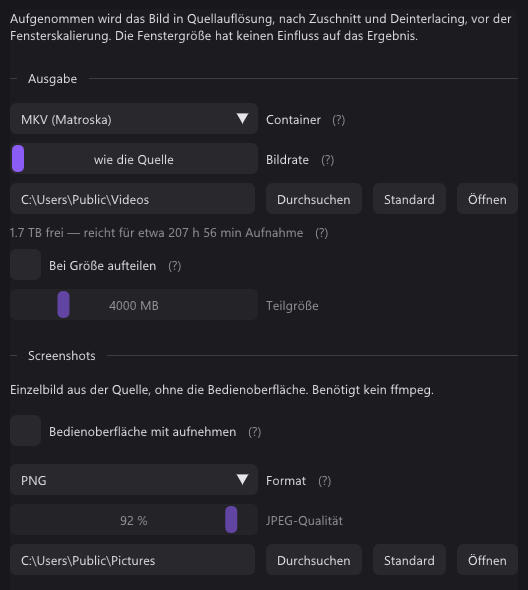
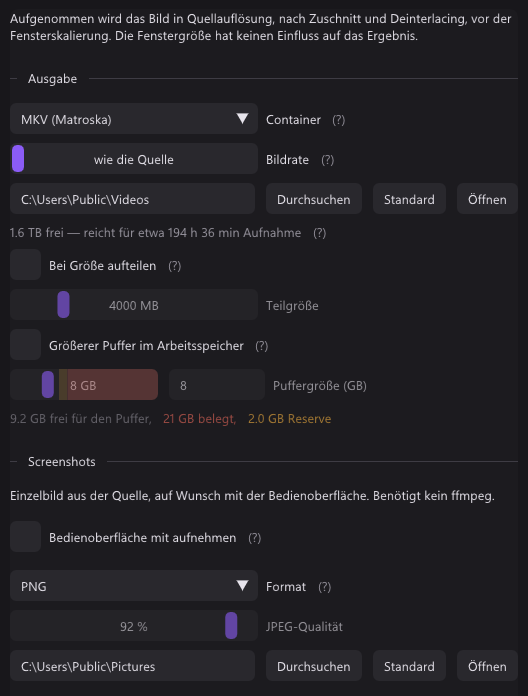
Website, manual and README for 6.1
- recording: 4:4:4, lossless encoders, unfiltered, larger memory buffer
- audio: the recording sources list replaces the microphone track
- new screenshots of the Recording tab (manual, both languages) and of
  the Recording and Encoder tabs (wiki)

diff --git a/docs/de/manual.html b/docs/de/manual.html
@@ -139,7 +139,7 @@
         <tr><td><strong>Quelle</strong></td><td>Videogerät, Videonorm, Eingang der Karte, Ton der Quelle, Format</td></tr>
         <tr><td><strong>Bild</strong></td><td>Skalierung, Bildregler, Halbbilder (Deinterlacing), Bildrand abschneiden, natives Pixelraster, Composite-Filter oder Rauschen, Bildröhre, Vergleich, Farbe</td></tr>
         <tr><td><strong>HDR</strong></td><td>Hoher Kontrastumfang: Tone Mapping oder Durchreichen, und was den Umfang in Screenshots und Aufnahmen behält</td></tr>
-        <tr><td><strong>Ton</strong></td><td>Wiedergabegerät, Verzögerung, Lautstärke, Mikrofon</td></tr>
+        <tr><td><strong>Ton</strong></td><td>Wiedergabegerät, Verzögerung, Lautstärke, Tonquellen der Aufnahme</td></tr>
         <tr><td><strong>Anzeige</strong></td><td>Grafik (Direct3D 11 oder Vulkan), VSync und Verhalten, Lautstärke-Anzeige, Vollbild</td></tr>
         <tr><td><strong>Aufnahme</strong></td><td>Ausgabeordner und Format, Screenshots, virtuelle Kamera, nach MP4 umpacken</td></tr>
         <tr><td><strong>Encoder</strong></td><td>Encoder, ffmpeg, Encoder-Einstellungen</td></tr>
@@ -157,10 +157,12 @@
         <li>Aufnehmen braucht ffmpeg. <strong>Encoder &rarr; ffmpeg herunterladen</strong> holt es und hält es aktuell.</li>
         <li>Den Encoder im Reiter Encoder wählen: NVENC, Quick Sync, AMF, x264 oder x265, mit H.264, H.265 oder AV1.</li>
         <li><strong>Volle Farbauflösung (4:4:4)</strong> behält die Farbe jedes Pixels, lohnt sich bei HDMI- und RGB-Quellen. Größere Dateien, und VLC oder mpv spielen sie ab, wo Browser und Handys es nicht können. NVENC, x264 und x265 können das.</li>
+        <li>Verlustfrei: <em>H.265 verlustfrei (NVIDIA NVENC)</em> schreibt MKV, <em>UT Video</em> und <em>Unkomprimiert</em> schreiben AVI, ohne 4-GB-Grenze. <strong>Ohne Filter</strong> nimmt die Bilder der Karte so auf, wie sie ankommen: ohne Deinterlacing, Beschnitt, Skalierung und Filter.</li>
         <li><kbd>F9</kbd> startet und stoppt. Ein roter Punkt auf dem Taskleistenknopf zeigt, dass aufgenommen wird.</li>
         <li>Der Reiter Aufnahme zeigt den freien Platz als Aufnahmezeit. Eine Aufnahme stoppt selbst, bevor das Laufwerk voll ist.</li>
+        <li><strong>Größerer Puffer im Arbeitsspeicher</strong> hält, was ein langsames Laufwerk noch nicht geschrieben hat, mehr als die üblichen 512&nbsp;MB.</li>
         <li>Kommt der Encoder nicht hinterher, sagt es ein Hinweis, und die Aufnahmeanzeige zeigt es, solange es anhält. Abhilfe: eine schnellere Voreinstellung, eine kleinere Auflösung oder Bildrate.</li>
-        <li>Ein Mikrofon kann auf eine eigene Spur: <strong>Ton &rarr; Mikrofon</strong>.</li>
+        <li><strong>Ton &rarr; Tonquellen der Aufnahme</strong> ergänzt den Ton der Karte: ein Mikrofon, ein Ausgabegerät oder den Systemton ohne qBlank. Jede Quelle hat eine eigene Verstärkung und kommt in die Mischung, auf eine eigene Spur oder beides. Wiedergegeben wird davon nichts.</li>
         <li><strong>Nach MP4 umpacken</strong> macht fertige Aufnahmen zu MP4, ohne sie neu zu kodieren.</li>
       </ul>
       <h3>Screenshots</h3>
@@ -170,7 +172,7 @@
         <li><em>Bedienoberfläche mit aufnehmen</em> im Reiter Aufnahme nimmt stattdessen das fertige Fenster auf.</li>
       </ul>
       <figure class="ui">
-        <img src="shots/recording.png" width="528" height="590" loading="lazy" alt="Der Reiter Aufnahme: Container MKV, Bildrate wie die Quelle, der Ausgabeordner mit dem freien Platz als Aufnahmezeit und unter Screenshots das Format PNG und der Screenshot-Ordner">
+        <img src="shots/recording.png" width="528" height="696" loading="lazy" alt="Der Reiter Aufnahme: Container MKV, Bildrate wie die Quelle, der Ausgabeordner mit dem freien Platz als Aufnahmezeit, der größere Puffer im Arbeitsspeicher und unter Screenshots das Format PNG und der Screenshot-Ordner">
         <figcaption>Einstellungen &rarr; Aufnahme: Container, Ordner und freier Platz, darunter die Screenshots.</figcaption>
       </figure>
       <h3>Virtuelle Kamera</h3>

diff --git a/docs/manual.html b/docs/manual.html
@@ -140,7 +140,7 @@
         <tr><td><strong>Source</strong></td><td>Video device, video standard, card input, source audio, format</td></tr>
         <tr><td><strong>Picture</strong></td><td>Scaling, picture controls, fields (deinterlacing), crop, native pixel grid, composite filter or noise, cathode ray tube, compare, colour</td></tr>
         <tr><td><strong>HDR</strong></td><td>High dynamic range: tone mapping or passthrough, and what keeps the range in screenshots and recordings</td></tr>
-        <tr><td><strong>Audio</strong></td><td>Playback device, delay, volume, microphone</td></tr>
+        <tr><td><strong>Audio</strong></td><td>Playback device, delay, volume, recording sources</td></tr>
         <tr><td><strong>Display</strong></td><td>Graphics (Direct3D 11 or Vulkan), VSync and behaviour, volume readout, fullscreen</td></tr>
         <tr><td><strong>Recording</strong></td><td>Output folder and format, screenshots, virtual camera, rewrap to MP4</td></tr>
         <tr><td><strong>Encoder</strong></td><td>Encoder, ffmpeg, encoder settings</td></tr>
@@ -158,10 +158,12 @@
         <li>Recording needs ffmpeg. <strong>Encoder &rarr; Download ffmpeg</strong> fetches it and keeps it current.</li>
         <li>Pick the encoder in the Encoder tab: NVENC, Quick Sync, AMF, x264 or x265, with H.264, H.265 or AV1.</li>
         <li><strong>Full colour resolution (4:4:4)</strong> keeps the colour of every pixel, worth it for HDMI and RGB sources. Larger files, and VLC or mpv play them where browsers and phones cannot. NVENC, x264 and x265 can.</li>
+        <li>Lossless: <em>H.265 lossless (NVIDIA NVENC)</em> writes MKV, <em>UT Video</em> and <em>Uncompressed</em> write AVI, with no 4&nbsp;GB limit. <strong>Unfiltered</strong> records the card's frames as they arrive: no deinterlacing, crop, scaling or filters.</li>
         <li><kbd>F9</kbd> starts and stops. A red dot on the taskbar button shows that it is recording.</li>
         <li>The Recording tab shows the free space as recording time. A recording stops itself before the drive is full.</li>
+        <li><strong>Larger buffer in memory</strong> holds what a slow drive has not written yet, more than the usual 512&nbsp;MB.</li>
         <li>If the encoder cannot keep up, a notice says so, and the recording indicator shows it while it lasts. A faster preset, or a lower resolution or frame rate, helps.</li>
-        <li>A microphone can go on a track of its own: <strong>Audio &rarr; Microphone</strong>.</li>
+        <li><strong>Audio &rarr; Recording sources</strong> adds to the card audio: a microphone, an output device or the system sound without qBlank. Each has its own gain and goes on the mix, on a track of its own, or both. None of it is played back.</li>
         <li><strong>Rewrap to MP4</strong> turns finished recordings into MP4 without encoding them again.</li>
       </ul>
       <h3>Screenshots</h3>
@@ -171,7 +173,7 @@
         <li><em>Include the interface</em> in the Recording tab grabs the finished window instead.</li>
       </ul>
       <figure class="ui">
-        <img src="shots/recording.png" width="528" height="590" loading="lazy" alt="The Recording tab: container MKV, frame rate same as source, the output folder with the free space as recording time, and under Screenshots the format PNG and the screenshot folder">
+        <img src="shots/recording.png" width="528" height="696" loading="lazy" alt="The Recording tab: container MKV, frame rate same as source, the output folder with the free space as recording time, the larger buffer in memory, and under Screenshots the format PNG and the screenshot folder">
         <figcaption>Settings &rarr; Recording: container, folder and free space, below them the screenshots.</figcaption>
       </figure>
       <h3>Virtual camera</h3>

diff --git a/docs/de/index.html b/docs/de/index.html
@@ -118,9 +118,10 @@
     <h2><span class="num">02</span>Aufnehmen, festhalten, weitergeben</h2>
     <p class="lead">Für jedes DirectShow-Gerät: HDMI- und analoge Karten, USB-Sticks, Webcams.</p>
     <div class="grid">
-      <div class="card"><h3>Aufnahme</h3><p>H.264, H.265 oder AV1 über NVENC, Quick Sync, AMF, x264 oder x265. Der Ton ist die Hauptuhr, deshalb hat die Aufnahme eine konstante Bildrate und driftet nicht: gemessen 1&nbsp;ms über 15&nbsp;Sekunden. Der freie Platz auf dem Laufwerk wird als Aufnahmezeit angezeigt, und eine Aufnahme stoppt selbst, bevor das Laufwerk voll ist. Kommt der Encoder nicht hinterher, sagt es ein Hinweis.</p></div>
+      <div class="card"><h3>Aufnahme</h3><p>H.264, H.265 oder AV1 über NVENC, Quick Sync, AMF, x264 oder x265, in 4:2:0 oder voller Farbauflösung (4:4:4). Der Ton ist die Hauptuhr, deshalb hat die Aufnahme eine konstante Bildrate und driftet nicht: gemessen 1&nbsp;ms über 15&nbsp;Sekunden. Der freie Platz auf dem Laufwerk wird als Aufnahmezeit angezeigt, und eine Aufnahme stoppt selbst, bevor das Laufwerk voll ist. Kommt der Encoder nicht hinterher, sagt es ein Hinweis.</p></div>
+      <div class="card"><h3>Verlustfrei</h3><p>H.265 verlustfrei über NVENC in MKV, UT Video oder unkomprimiert in AVI, ohne 4-GB-Grenze. <strong>Ohne Filter</strong> behält die Bilder der Karte, wie sie ankommen: ohne Deinterlacing, Beschnitt, Skalierung und Filter.</p></div>
       <div class="card"><h3>Encoder-Einstellungen</h3><p>Ratensteuerung, Preset, Tuning, Look-ahead, adaptive Quantisierung und Multipass unter einheitlichen Namen, übersetzt in die Begriffe jedes Herstellers.</p></div>
-      <div class="card"><h3>Ton</h3><p>Der Ton der Karte oder jedes Windows-Aufnahmegerät, ausgegeben über WASAPI, Taktdrift wird laufend ausgeglichen. Ein Mikrofon kann auf eine eigene Spur der Aufnahme und wird nie wiedergegeben.</p></div>
+      <div class="card"><h3>Ton</h3><p>Der Ton der Karte oder jedes Windows-Aufnahmegerät, ausgegeben über WASAPI, Taktdrift wird laufend ausgeglichen. Die Aufnahme kann ein Mikrofon, ein Ausgabegerät oder den Systemton ohne qBlank dazunehmen, jedes mit eigener Verstärkung, gemischt oder auf eigener Spur, und nie wiedergegeben.</p></div>
       <div class="card"><h3>Screenshots</h3><p>PNG oder JPEG in Quellauflösung über die Windows Imaging Component, ganz ohne ffmpeg. JPEG&nbsp;XR behält den HDR-Umfang und braucht auch keins, AVIF schon. Ein Schalter nimmt stattdessen das fertige Fenster samt Oberfläche auf, und <strong>Strg+F10</strong> legt das Bild in die Zwischenablage statt auf die Platte.</p></div>
       <div class="card"><h3>Virtuelle Kamera</h3><p>Gib das Bild an OBS, Discord oder einen Browser weiter, in Auflösung und Bildrate der Quelle &mdash; und an alles, was das nicht annimmt, in dem Format, das es stattdessen verlangt.</p></div>
       <div class="card"><h3>Hoher Kontrastumfang</h3><p>PQ und HLG werden in lineares Licht umgerechnet und mit BT.2390 für einen normalen Bildschirm tone-gemappt oder als scRGB an einen HDR-Bildschirm durchgereicht.</p></div>

diff --git a/docs/index.html b/docs/index.html
@@ -124,9 +124,10 @@
     <h2><span class="num">02</span>Record, capture, pass it on</h2>
     <p class="lead">For any DirectShow device: HDMI and analogue cards, USB dongles, webcams.</p>
     <div class="grid">
-      <div class="card"><h3>Recording</h3><p>H.264, H.265 or AV1 through NVENC, Quick Sync, AMF, x264 or x265. The audio is the master clock, so the output is constant frame rate and does not drift — measured at 1&nbsp;ms over 15&nbsp;seconds. The free space on the drive is shown as the recording time it is worth, and a recording stops itself before the drive fills up. If the encoder cannot keep up, a notice says so.</p></div>
+      <div class="card"><h3>Recording</h3><p>H.264, H.265 or AV1 through NVENC, Quick Sync, AMF, x264 or x265, in 4:2:0 or full colour resolution (4:4:4). The audio is the master clock, so the output is constant frame rate and does not drift — measured at 1&nbsp;ms over 15&nbsp;seconds. The free space on the drive is shown as the recording time it is worth, and a recording stops itself before the drive fills up. If the encoder cannot keep up, a notice says so.</p></div>
+      <div class="card"><h3>Lossless</h3><p>H.265 lossless through NVENC in MKV, UT Video or uncompressed in AVI, with no 4&nbsp;GB limit. <strong>Unfiltered</strong> keeps the card's frames as they arrive: no deinterlacing, crop, scaling or filters.</p></div>
       <div class="card"><h3>Encoder controls</h3><p>Rate control, preset, tuning, look-ahead, adaptive quantisation and multipass, under one set of names translated into each vendor's own.</p></div>
-      <div class="card"><h3>Audio</h3><p>The card's own audio or any Windows recording device, out through WASAPI, with clock drift corrected on the fly. A microphone can go on a track of its own in the recording, and is never played back.</p></div>
+      <div class="card"><h3>Audio</h3><p>The card's own audio or any Windows recording device, out through WASAPI, with clock drift corrected on the fly. The recording can add a microphone, an output device or the system sound without qBlank, each with its own gain, mixed or on a track of its own, and never played back.</p></div>
       <div class="card"><h3>Screenshots</h3><p>PNG or JPEG at source resolution through Windows Imaging Component, so no ffmpeg is needed. JPEG&nbsp;XR keeps the HDR range and needs none either; AVIF does. A switch grabs the finished window instead, interface and all, and <strong>Ctrl+F10</strong> puts the shot on the clipboard rather than on disk.</p></div>
       <div class="card"><h3>Virtual camera</h3><p>Offer the picture to OBS, Discord or a browser at the source's own resolution and frame rate &mdash; and to anything that cannot take that, at whatever it asks for instead.</p></div>
       <div class="card"><h3>High dynamic range</h3><p>PQ and HLG are decoded to linear light, tone mapped with BT.2390 for an ordinary screen or passed through as scRGB for an HDR one.</p></div>

diff --git a/README.md b/README.md
@@ -15,7 +15,7 @@ file, any DirectShow device, and as little delay as the hardware allows.
 Measured on a StarTech PEXHDCAP60L: **1080p60 sustained, around 1 ms from a
 frame arriving to the present that hands it to the compositor.**
 
-Recording, screenshots, a microphone track and a virtual camera are included;
+Recording (lossless too), screenshots and a virtual camera are included;
 scenes, overlays, compositing and streaming are not. For those, use OBS.
 
 > **The [manual](https://qblank.com/manual.html) explains how
@@ -117,15 +117,19 @@ scenes, overlays, compositing and streaming are not. For those, use OBS.
 - Embedded card audio or any Windows recording device, out through WASAPI.
 - Buffer target, optional exclusive mode, A/V offset.
 - Clock drift corrected by nudging the playback rate a fraction of a per cent.
-- Optional microphone on its own track, never played back.
+- Recording sources on top of the card audio: microphones, output devices, the system sound without qBlank — each with its own gain, mixed, separate or both, never played back.
 
 **Recording** · [wiki](../../wiki/Recording)
 - H.264, H.265 or AV1 through NVENC, Quick Sync, AMF, x264 or x265, encoded inside qBlank by ffmpeg's libraries.
+- 4:2:0 or full colour resolution (4:4:4), converted on the GPU; zero-copy into NVENC and AMF.
+- Lossless: H.265 lossless (NVENC) in MKV, UT Video or uncompressed RGB in AVI, no 4 GB limit.
+- **Unfiltered**: the card's frames as they arrive — no deinterlacing, crop, scaling or filters.
 - At source resolution: after crop and deinterlacing, before window scaling.
 - Capture audio is the master clock — constant frame rate, 1 ms drift over 15 seconds.
 - 60 to 50 Hz mid-recording **cuts the file and continues in a new one**.
 - Rate control, preset, tuning, look-ahead, adaptive quantisation and multipass under one set of names.
 - Free space shown as remaining recording time; a recording will not start on a full drive and stops itself before one fills up.
+- An optional larger memory buffer for slow drives, never more than is free.
 - A notice when the encoder cannot keep up.
 
 **Screenshots** · [wiki](../../wiki/Screenshots)
